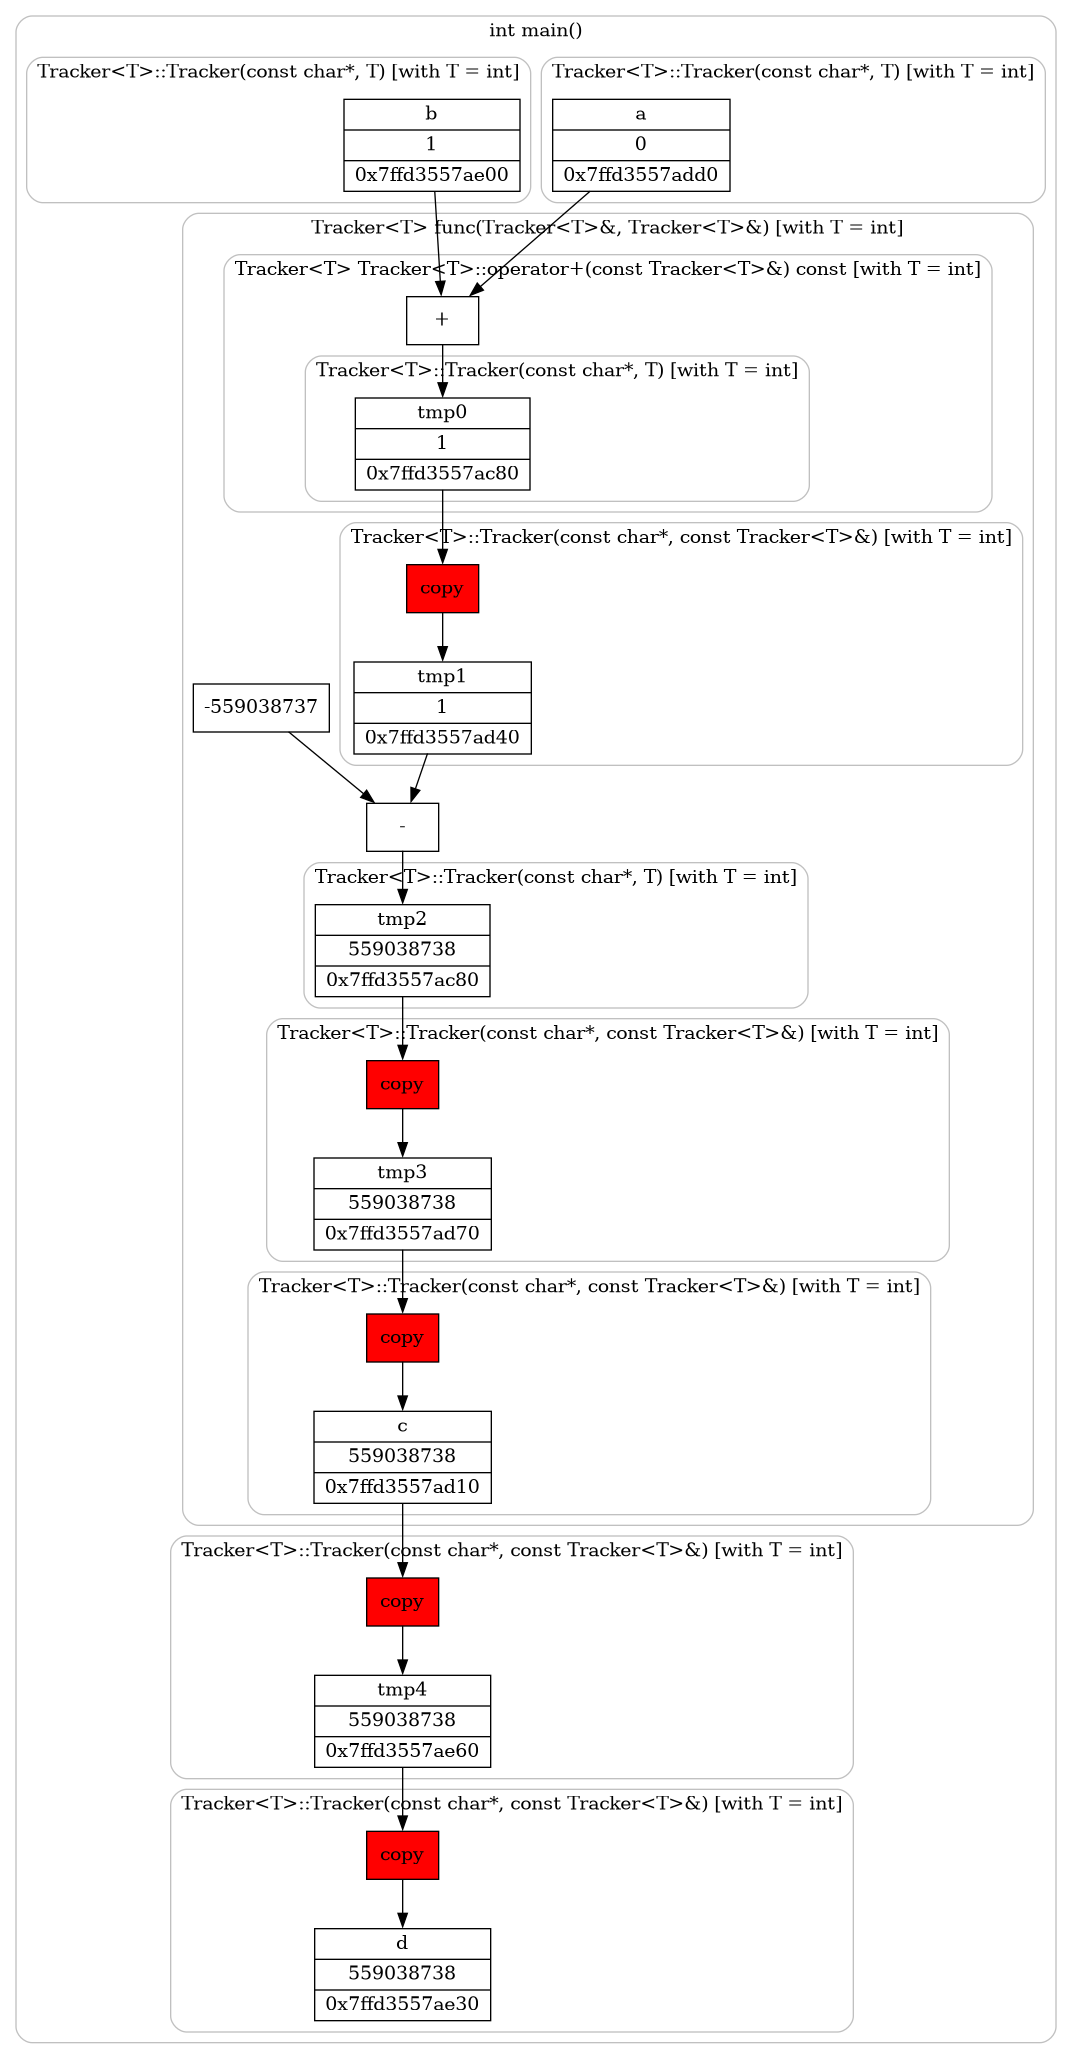
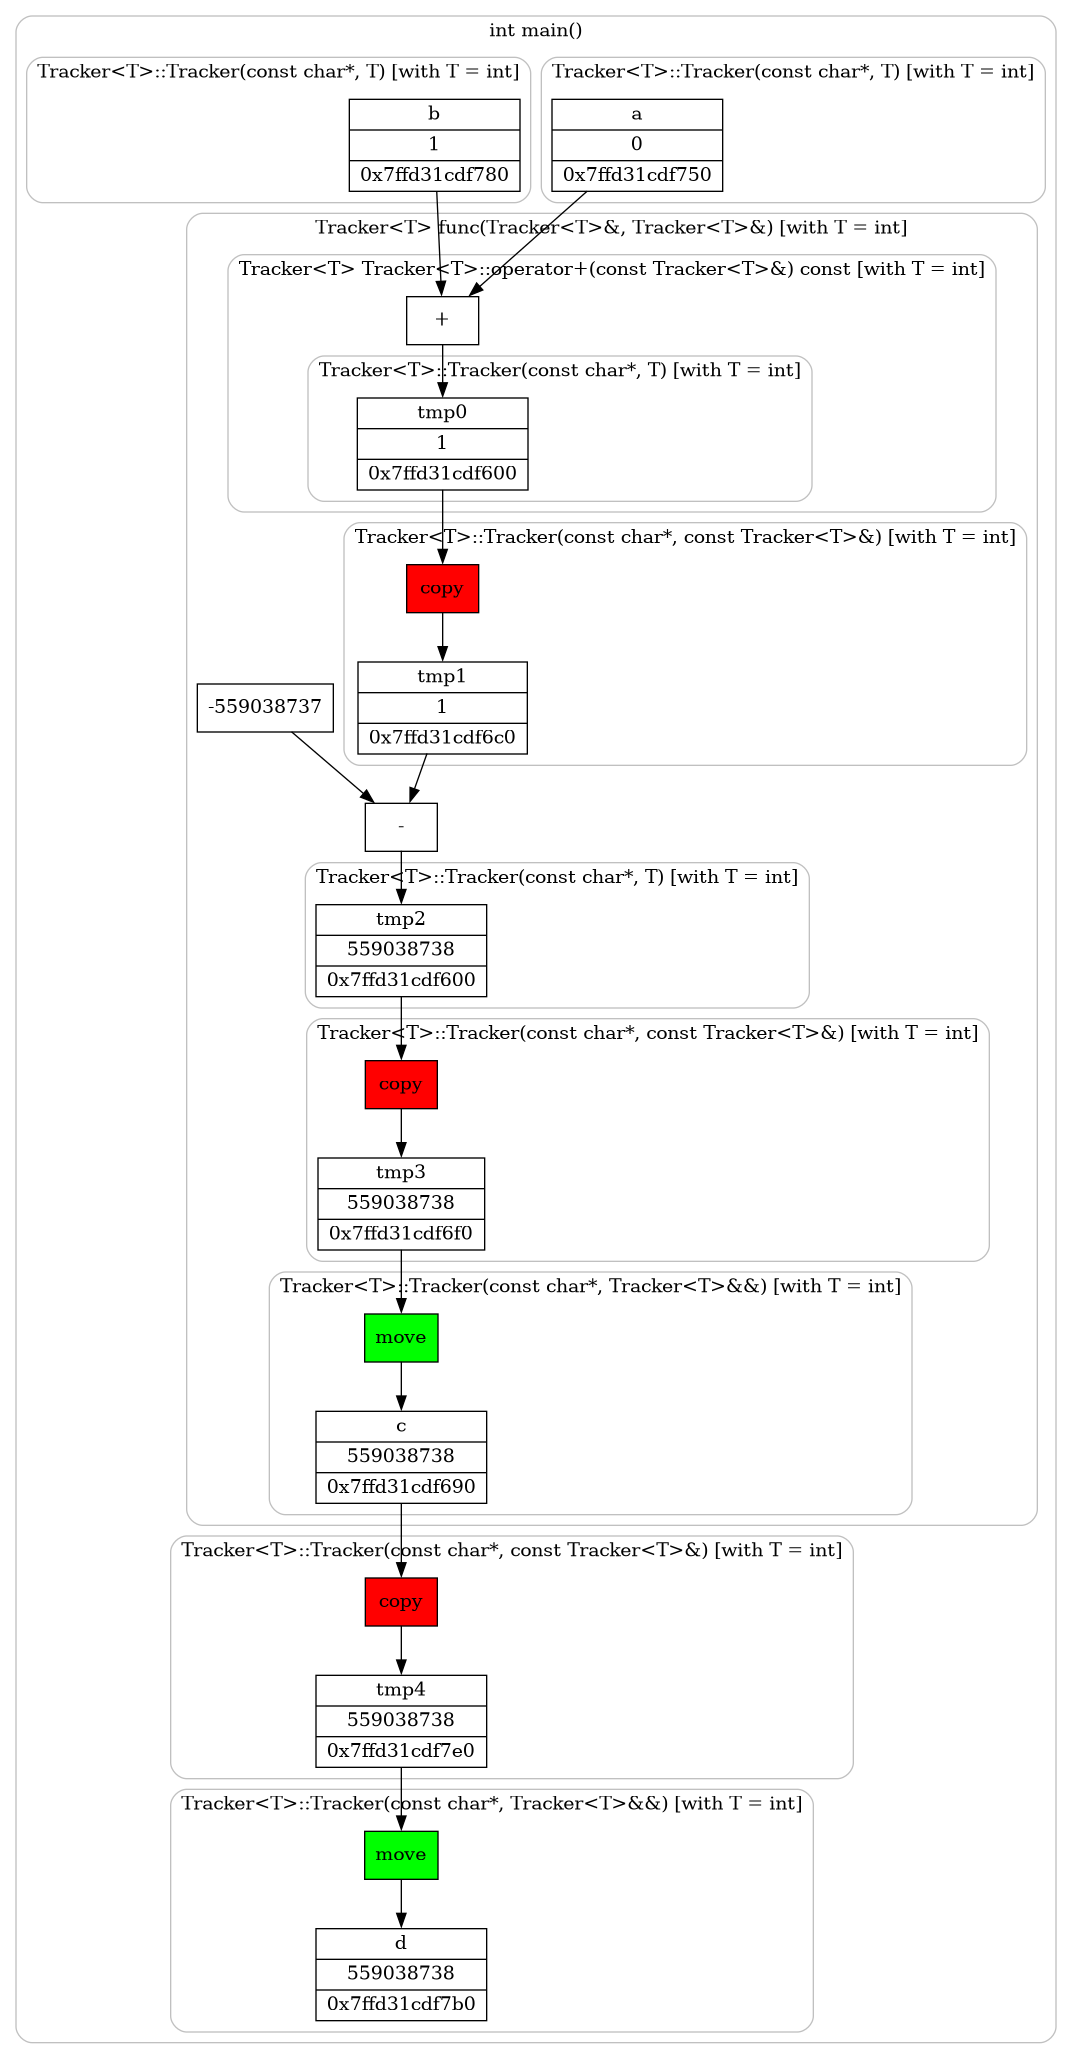
save

diff --git a/README.md b/README.md
@@ -27,7 +27,8 @@ tmp2 = tmp1  + T_DEF
 ## C++ 98/03
 Рассмотрим наш пример при T=int, посмотрим где вызываются конструкторы копирования и посчитаем их количество. Учтем, что стандарт c++ 14 года позволяет не создавать временный объект, который используется только для инициализации другого объекта того же типа, экономя copy-вызовы и поставим флаг -fno-elide-constructors, благодаря которому copy-вызовы будут осуществляться везде где только можно.
 
-![изображение](logs/graph.png)
+![изображение](logs/graph1.png)
+Имеем 5 конструкторов копирования и 4 временных объектов
 
 Стандарт также позволяет реализовывать конструктор копирования через nonconst lvalue ссылки, что является довольно небезопасным способом для большинства случаев(очевидно почему). Адекватные примеры мне неизвестны, буду рад, если кто-то поделится.
 
@@ -36,10 +37,7 @@ tmp2 = tmp1  + T_DEF
 
 Имплементируем в наш код move-конструкторы и посмотрим, как много конструкторов копирования изменилось на конструкторы пермещения.
 
-[[img2]] + comment
+![изображение](logs/graph2.png)
+Получаем 3 конструктора копирования и 4 временных обьекта
 
-Что будет если мы реализуем конструктор перемещения через const rvalue ссылки? Обьект будет позиционировать себя как временный, но конструктор к несчастью(или к радости?) данные "украсть" не сможет. Чтобы наглядно это продемонстрировать рассмотрим наш пример, работающий на const rvalue ссылках.
-  
- [[img3]] + comment
-  
-  
+Что будет если мы реализуем конструктор перемещения через const rvalue ссылки? Обьект будет позиционировать себя как временный, но конструктор к несчастью(или к радости?) данные "украсть" не сможет.
